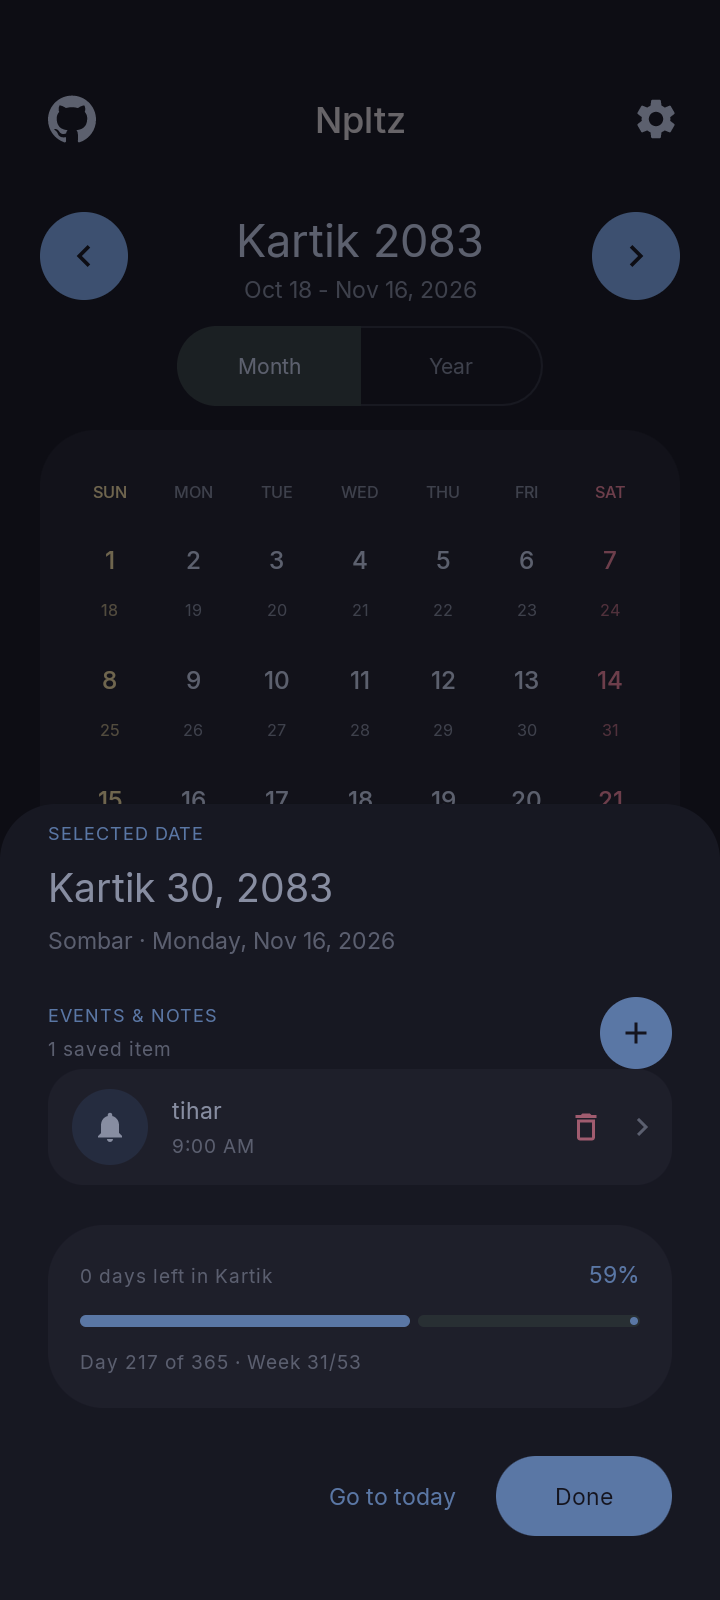
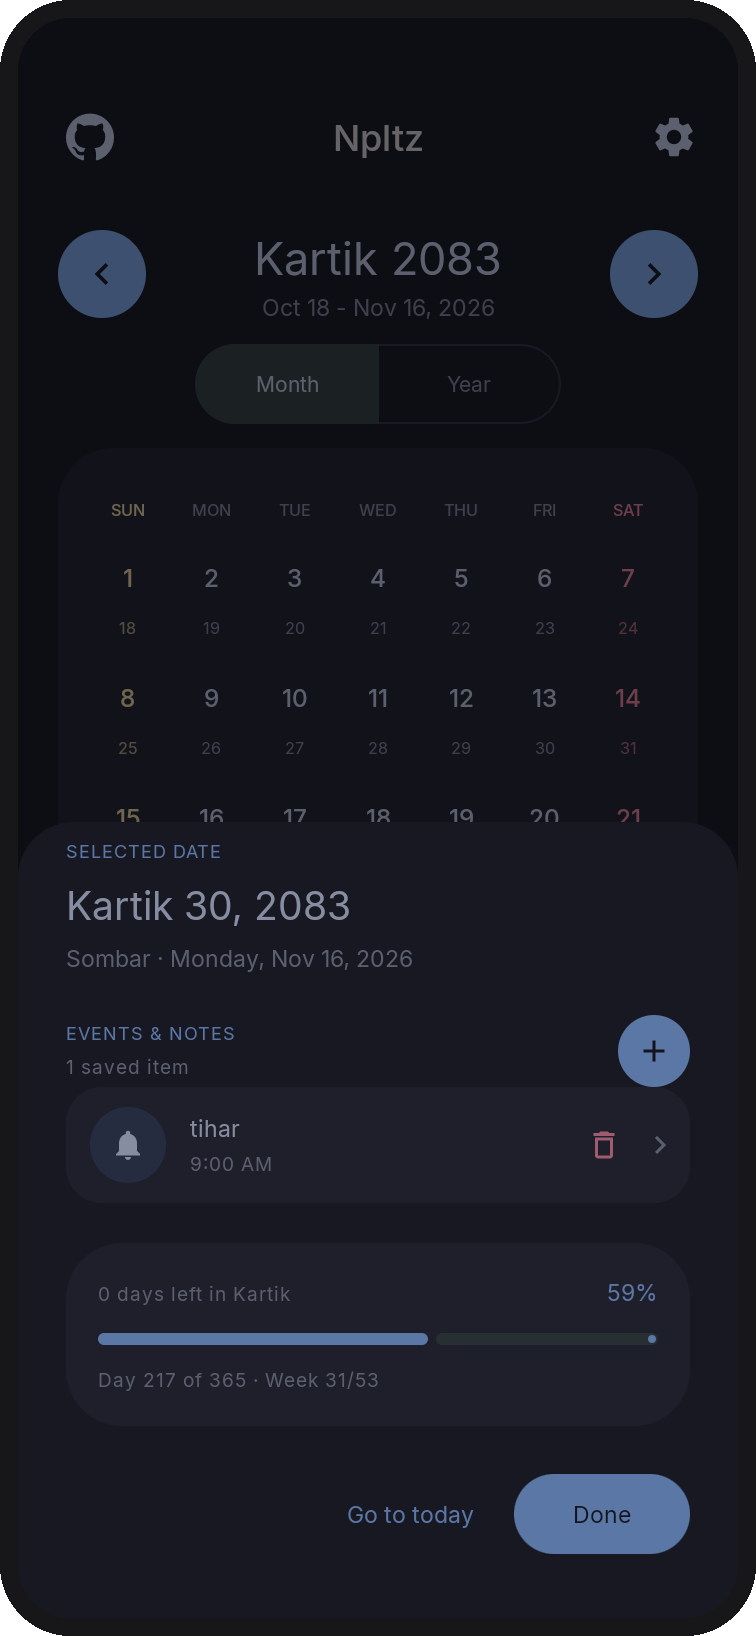
docs: phone-framed screenshots and credits at the bottom

diff --git a/README.md b/README.md
@@ -29,8 +29,6 @@ No ads, no tracking and no network permission.
   </tr>
 </table>
 
-<p align="center">Made with ❤ by <b>Hari Chalise</b></p>
-
 ## Features
 
 - Bikram Sambat month and year views, with the matching AD date under each day.
@@ -200,4 +198,4 @@ is MIT licensed; this Android app is GPL-3.0.
 
 If you love my work, starring this repo is a support for me. Thank you.
 
-Made with love in Nepal.
+Made with ❤ by Hari Chalise.
